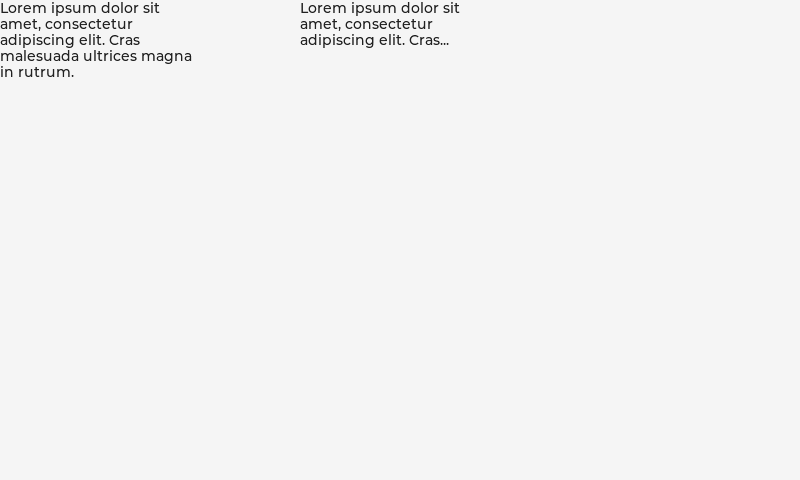
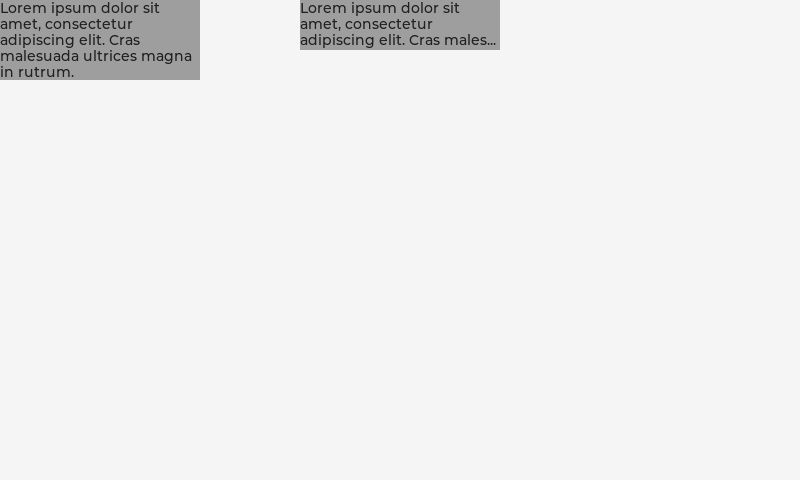
fix(label): do not break last line for LV_LABEL_LONG_DOT (#5606)

Changed region(s): [[0.0, 0.0, 0.25, 0.1875], [0.375, 0.0, 0.625, 0.125]]

diff --git a/src/widgets/label/lv_label.c b/src/widgets/label/lv_label.c
@@ -291,11 +291,15 @@ void lv_label_get_letter_pos(const lv_obj_t * obj, uint32_t char_id, lv_point_t 
     lv_area_t txt_coords;
     lv_obj_get_content_coords(obj, &txt_coords);
     const int32_t max_w = lv_area_get_width(&txt_coords);
+    const int32_t max_h = lv_area_get_height(&txt_coords);
 
     int32_t y = 0;
     uint32_t line_start = 0;
     uint32_t new_line_start = 0;
     while(txt[new_line_start] != '\0') {
+        bool last_line = y + letter_height + line_space + letter_height > max_h;
+        if(last_line && label->long_mode == LV_LABEL_LONG_DOT) flag |= LV_TEXT_FLAG_BREAK_ALL;
+
         new_line_start += lv_text_get_next_line(&txt[line_start], font, letter_space, max_w, NULL, flag);
         if(byte_id < new_line_start || txt[new_line_start] == '\0')
             break; /*The line of 'index' letter begins at 'line_start'*/
@@ -370,7 +374,8 @@ uint32_t lv_label_get_letter_on(const lv_obj_t * obj, lv_point_t * pos_in, bool 
     const char * txt         = lv_label_get_text(obj);
     uint32_t line_start      = 0;
     uint32_t new_line_start  = 0;
-    int32_t max_w         = lv_area_get_width(&txt_coords);
+    int32_t max_w = lv_area_get_width(&txt_coords);
+    int32_t max_h = lv_area_get_height(&txt_coords);
     const lv_font_t * font   = lv_obj_get_style_text_font(obj, LV_PART_MAIN);
     const int32_t line_space = lv_obj_get_style_text_line_space(obj, LV_PART_MAIN);
     const int32_t letter_space = lv_obj_get_style_text_letter_space(obj, LV_PART_MAIN);
@@ -381,6 +386,11 @@ uint32_t lv_label_get_letter_on(const lv_obj_t * obj, lv_point_t * pos_in, bool 
 
     /*Search the line of the index letter*/;
     while(txt[line_start] != '\0') {
+        /*If dots will be shown, break the last visible line anywhere,
+         *not only at word boundaries.*/
+        bool last_line = y + letter_height + line_space + letter_height > max_h;
+        if(last_line && label->long_mode == LV_LABEL_LONG_DOT) flag |= LV_TEXT_FLAG_BREAK_ALL;
+
         new_line_start += lv_text_get_next_line(&txt[line_start], font, letter_space, max_w, NULL, flag);
 
         if(pos.y <= y + letter_height) {
@@ -479,7 +489,8 @@ bool lv_label_is_char_under_pos(const lv_obj_t * obj, lv_point_t * pos)
     lv_label_t * label     = (lv_label_t *)obj;
     uint32_t line_start      = 0;
     uint32_t new_line_start  = 0;
-    const int32_t max_w         = lv_area_get_width(&txt_coords);
+    const int32_t max_w = lv_area_get_width(&txt_coords);
+    const int32_t max_h = lv_area_get_height(&txt_coords);
     const lv_font_t * font   = lv_obj_get_style_text_font(obj, LV_PART_MAIN);
     const int32_t line_space = lv_obj_get_style_text_line_space(obj, LV_PART_MAIN);
     const int32_t letter_space = lv_obj_get_style_text_letter_space(obj, LV_PART_MAIN);
@@ -490,6 +501,9 @@ bool lv_label_is_char_under_pos(const lv_obj_t * obj, lv_point_t * pos)
     /*Search the line of the index letter*/
     int32_t y = 0;
     while(txt[line_start] != '\0') {
+        bool last_line = y + letter_height + line_space + letter_height > max_h;
+        if(last_line && label->long_mode == LV_LABEL_LONG_DOT) flag |= LV_TEXT_FLAG_BREAK_ALL;
+
         new_line_start += lv_text_get_next_line(&txt[line_start], font, letter_space, max_w, NULL, flag);
 
         if(pos->y <= y + letter_height) break; /*The line is found (stored in 'line_start')*/

diff --git a/src/misc/lv_text.c b/src/misc/lv_text.c
@@ -164,12 +164,11 @@ void lv_text_get_size(lv_point_t * size_res, const char * text, const lv_font_t 
  * @param max_width max width of the text (break the lines to fit this size). Set COORD_MAX to avoid line breaks
  * @param flags settings for the text from 'txt_flag_type' enum
  * @param[out] word_w_ptr width (in pixels) of the parsed word. May be NULL.
- * @param force Force return the fraction of the word that can fit in the provided space.
  * @return the index of the first char of the next word (in byte index not letter index. With UTF-8 they are different)
  */
 static uint32_t lv_text_get_next_word(const char * txt, const lv_font_t * font,
                                       int32_t letter_space, int32_t max_width,
-                                      lv_text_flag_t flag, uint32_t * word_w_ptr, bool force)
+                                      lv_text_flag_t flag, uint32_t * word_w_ptr)
 {
     if(txt == NULL || txt[0] == '\0') return 0;
     if(font == NULL) return 0;
@@ -239,14 +238,14 @@ static uint32_t lv_text_get_next_word(const char * txt, const lv_font_t * font,
 #if LV_TXT_LINE_BREAK_LONG_LEN > 0
     /*Word doesn't fit in provided space, but isn't "long"*/
     if(word_len < LV_TXT_LINE_BREAK_LONG_LEN) {
-        if(force) return break_index;
+        if(flag & LV_TEXT_FLAG_BREAK_ALL) return break_index;
         if(word_w_ptr != NULL) *word_w_ptr = 0; /*Return no word*/
         return 0;
     }
 
     /*Word is "long," but insufficient amounts can fit in provided space*/
     if(break_letter_count < LV_TXT_LINE_BREAK_LONG_PRE_MIN_LEN) {
-        if(force) return break_index;
+        if(flag & LV_TEXT_FLAG_BREAK_ALL) return break_index;
         if(word_w_ptr != NULL) *word_w_ptr = 0;
         return 0;
     }
@@ -266,7 +265,7 @@ static uint32_t lv_text_get_next_word(const char * txt, const lv_font_t * font,
     }
     return i;
 #else
-    if(force) return break_index;
+    if(flag & LV_TEXT_FLAG_BREAK_ALL) return break_index;
     if(word_w_ptr != NULL) *word_w_ptr = 0; /*Return no word*/
     (void) break_letter_count;
     return 0;
@@ -301,8 +300,11 @@ uint32_t lv_text_get_next_line(const char * txt, const lv_font_t * font,
     uint32_t i = 0;                                        /*Iterating index into txt*/
 
     while(txt[i] != '\0' && max_width > 0) {
+        lv_text_flag_t word_flag = flag;
+        if(i == 0) word_flag |= LV_TEXT_FLAG_BREAK_ALL;
+
         uint32_t word_w = 0;
-        uint32_t advance = lv_text_get_next_word(&txt[i], font, letter_space, max_width, flag, &word_w, i == 0);
+        uint32_t advance = lv_text_get_next_word(&txt[i], font, letter_space, max_width, word_flag, &word_w);
         max_width -= word_w;
         line_w += word_w;
 

diff --git a/src/misc/lv_text.h b/src/misc/lv_text.h
@@ -36,9 +36,13 @@ extern "C" {
  */
 
 enum _lv_text_flag_t {
-    LV_TEXT_FLAG_NONE    = 0x00,
-    LV_TEXT_FLAG_EXPAND  = 0x01, /**< Ignore max-width to avoid automatic word wrapping*/
-    LV_TEXT_FLAG_FIT     = 0x02, /**< Max-width is already equal to the longest line. (Used to skip some calculation)*/
+    LV_TEXT_FLAG_NONE      = 0x00,
+    LV_TEXT_FLAG_EXPAND    = 0x01, /**< Ignore max-width to avoid automatic word wrapping*/
+    LV_TEXT_FLAG_FIT       = 0x02, /**< Max-width is already equal to the longest line. (Used to skip some calculation)*/
+    LV_TEXT_FLAG_BREAK_ALL = 0x04, /**< To prevent overflow, insert breaks between any two characters.
+                                        Otherwise breaks are inserted at word boundaries, as configured via LV_TXT_BREAK_CHARS
+                                        or according to LV_TXT_LINE_BREAK_LONG_LEN, LV_TXT_LINE_BREAK_LONG_PRE_MIN_LEN,
+                                        and LV_TXT_LINE_BREAK_LONG_POST_MIN_LEN.*/
 };
 
 #ifdef DOXYGEN

diff --git a/tests/src/test_cases/widgets/test_label.c b/tests/src/test_cases/widgets/test_label.c
@@ -598,6 +598,8 @@ void test_label_max_width(void)
     lv_label_set_text(test_label1, long_text);
     lv_obj_set_width(test_label1, 600);
     lv_obj_set_style_max_width(test_label1, 200, LV_PART_MAIN);
+    lv_obj_set_style_bg_color(test_label1, lv_palette_main(LV_PALETTE_GREY), LV_PART_MAIN);
+    lv_obj_set_style_bg_opa(test_label1, LV_OPA_100, LV_PART_MAIN);
 
     lv_obj_t * test_label2 = lv_label_create(lv_screen_active());
     lv_label_set_text(test_label2, long_text);
@@ -605,6 +607,8 @@ void test_label_max_width(void)
     lv_obj_set_height(test_label2, 50);
     lv_obj_set_x(test_label2, 300);
     lv_obj_set_style_max_width(test_label2, 200, LV_PART_MAIN);
+    lv_obj_set_style_bg_color(test_label2, lv_palette_main(LV_PALETTE_GREY), LV_PART_MAIN);
+    lv_obj_set_style_bg_opa(test_label2, LV_OPA_100, LV_PART_MAIN);
     lv_label_set_long_mode(test_label2, LV_LABEL_LONG_DOT);
 
     TEST_ASSERT_EQUAL_SCREENSHOT("widgets/label_max_width.png");
